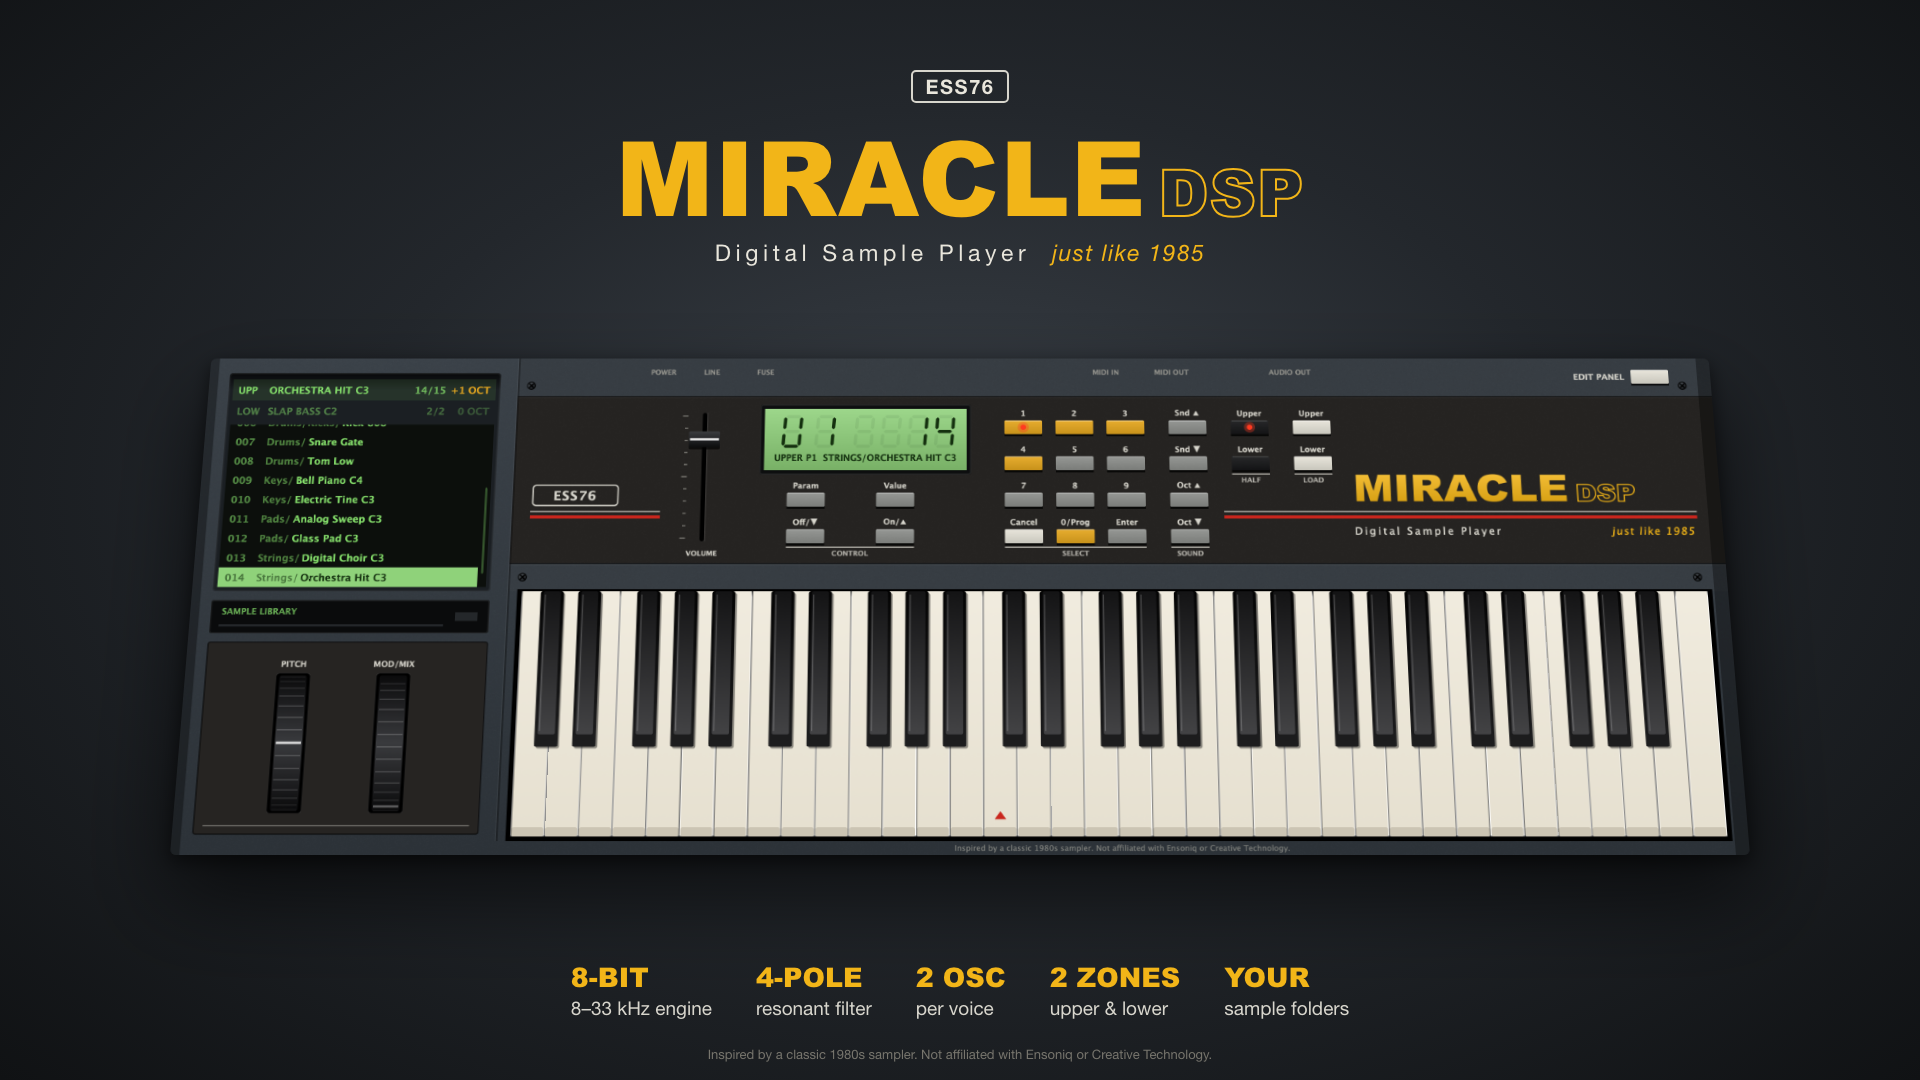
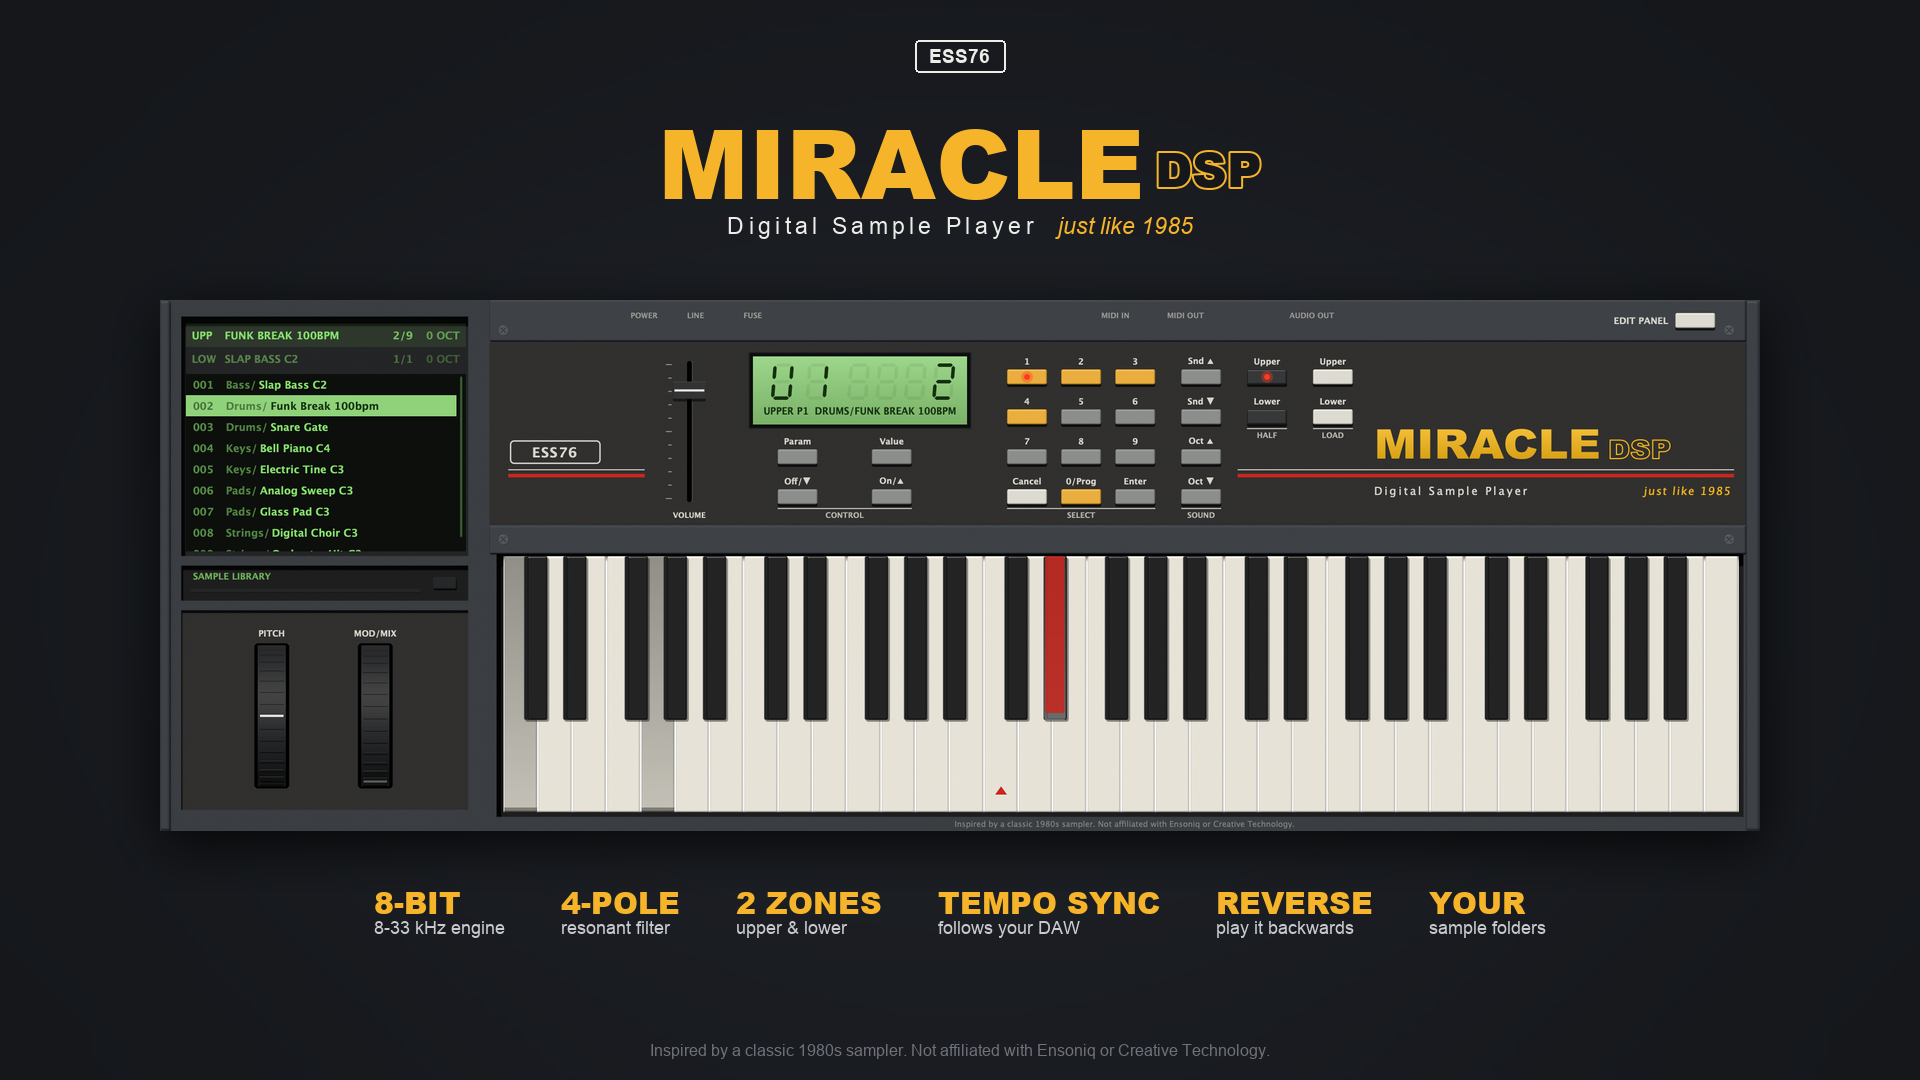
Regenerate mockups with the Blender look and ship Assets in the source zip
- New promotional graphics showing tempo sync, reverse and the playhead.
- Assets/promo: screenshot tool and mockup generator so the graphics can
  be rebuilt.
- build_installer.sh: include Assets/ in the source zip. The build needs
  Assets/renders since 1.4.0, so the previous zip could not be built.

diff --git a/Assets/promo/make_mockups.py b/Assets/promo/make_mockups.py
@@ -1,0 +1,210 @@
+#!/usr/bin/env python3
+"""Builds the promotional graphics in Release/<version>/Mockups from editor screenshots.
+
+Usage: python3 make_mockups.py <shots dir> <output dir>
+
+<shots dir> must hold compact.png, edit.png and edit_reverse.png as rendered by
+promo_shots.cpp (editor at 2x scale, 2720 px wide).
+"""
+import sys
+from pathlib import Path
+from PIL import Image, ImageDraw, ImageFilter, ImageFont
+
+SHOTS, OUT = Path(sys.argv[1]), Path(sys.argv[2])
+OUT.mkdir(parents=True, exist_ok=True)
+
+FONTS = Path("/System/Library/Fonts/Supplemental")
+AMBER, WHITE, RED = (245, 180, 42), (236, 236, 232), (205, 40, 36)
+
+
+def font(name, size):
+    return ImageFont.truetype(str(FONTS / name), size)
+
+
+compact = Image.open(SHOTS / "compact.png").convert("RGB")
+edit = Image.open(SHOTS / "edit.png").convert("RGB")
+edit_rev = Image.open(SHOTS / "edit_reverse.png").convert("RGB")
+
+# regions of the 2720 x 1540 edit screenshot
+TRAY = (32, 26, 523, 513)
+KEYPAD = (565, 69, 2700, 381)
+WAVE = (26, 914, 1269, 1205)
+PANEL = (0, 905, 2720, 1540)
+
+
+def background(w, h):
+    """Dark charcoal with a soft light spot behind the product."""
+    bg = Image.new("RGB", (w, h), (21, 23, 27))
+    glow = Image.new("L", (w, h), 0)
+    ImageDraw.Draw(glow).ellipse((w * 0.1, h * 0.15, w * 0.9, h * 0.95), fill=70)
+    glow = glow.filter(ImageFilter.GaussianBlur(min(w, h) * 0.18))
+    bg.paste(Image.new("RGB", (w, h), (52, 57, 66)), (0, 0), glow)
+    return bg
+
+
+def place(canvas, img, x, y, width, shadow=True):
+    """Pastes img scaled to width at x/y with a drop shadow; returns the bottom y."""
+    s = width / img.width
+    im = img.resize((int(img.width * s), int(img.height * s)), Image.LANCZOS)
+    if shadow:
+        pad = 60
+        sh = Image.new("L", (im.width + pad * 2, im.height + pad * 2), 0)
+        ImageDraw.Draw(sh).rectangle((pad, pad + 14, pad + im.width, pad + im.height + 14), fill=190)
+        sh = sh.filter(ImageFilter.GaussianBlur(26))
+        canvas.paste(Image.new("RGB", sh.size, (0, 0, 0)), (int(x) - pad, int(y) - pad), sh)
+    canvas.paste(im, (int(x), int(y)))
+    return int(y) + im.height
+
+
+def spaced(d, x, y, txt, f, fill, spacing=0):
+    for ch in txt:
+        d.text((x, y), ch, font=f, fill=fill)
+        x += d.textlength(ch, font=f) + spacing
+    return x
+
+
+def logo(canvas, cx, y, size, badge=True, align="center", x=None):
+    """ESS76 badge, MIRACLE DSP wordmark and subtitle. Returns the bottom y."""
+    d = ImageDraw.Draw(canvas)
+    big, small = font("Arial Black.ttf", size), font("Arial Black.ttf", int(size * 0.5))
+    sub, ital = font("Arial.ttf", int(size * 0.24)), font("Arial Italic.ttf", int(size * 0.24))
+    w1, w2 = d.textlength("MIRACLE", font=big), d.textlength("DSP", font=small)
+    total = w1 + size * 0.12 + w2
+    left = cx - total / 2 if align == "center" else x
+    if badge:
+        bf = font("Arial Bold.ttf", int(size * 0.2))
+        bw = d.textlength("ESS76", font=bf) + size * 0.3
+        bx = cx - bw / 2 if align == "center" else left
+        d.rounded_rectangle((bx, y, bx + bw, y + size * 0.33), radius=4, outline=WHITE, width=max(2, size // 50))
+        d.text((bx + bw / 2, y + size * 0.165), "ESS76", font=bf, fill=WHITE, anchor="mm")
+        y += size * 0.55
+    d.text((left, y), "MIRACLE", font=big, fill=AMBER)
+    d.text((left + w1 + size * 0.12, y + size * 0.98), "DSP", font=small, fill=(21, 23, 27), anchor="ls",
+           stroke_width=max(2, size // 45), stroke_fill=AMBER)
+    y += size * 1.25
+    s1, sp, gap = "Digital Sample Player", size * 0.045, size * 0.25
+    w_s1 = sum(d.textlength(ch, font=sub) + sp for ch in s1) - sp
+    w_s2 = d.textlength("just like 1985", font=ital)
+    sx = cx - (w_s1 + gap + w_s2) / 2 if align == "center" else left
+    spaced(d, sx, y, s1, sub, WHITE, sp)
+    d.text((sx + w_s1 + gap, y), "just like 1985", font=ital, fill=AMBER)
+    return int(y + size * 0.4)
+
+
+def features(canvas, y, items, size, cx, gap):
+    d = ImageDraw.Draw(canvas)
+    hf, tf = font("Arial Black.ttf", size), font("Arial.ttf", int(size * 0.62))
+    widths = [max(d.textlength(h, font=hf), d.textlength(t, font=tf)) for h, t in items]
+    x = cx - (sum(widths) + gap * (len(items) - 1)) / 2
+    for (h, t), w in zip(items, widths):
+        d.text((x, y), h, font=hf, fill=AMBER)
+        d.text((x, y + size * 1.25), t, font=tf, fill=(200, 202, 206))
+        x += w + gap
+
+
+def disclaimer(canvas, y):
+    ImageDraw.Draw(canvas).text(
+        (canvas.width / 2, y), "Inspired by a classic 1980s sampler. Not affiliated with Ensoniq or Creative Technology.",
+        font=font("Arial.ttf", max(12, canvas.width // 120)), fill=(110, 114, 122), anchor="mm")
+
+
+def centered(canvas, y, txt, size, fill=WHITE, name="Arial.ttf"):
+    ImageDraw.Draw(canvas).text((canvas.width / 2, y), txt, font=font(name, size), fill=fill, anchor="mm")
+
+
+FEATS = [("8-BIT", "8-33 kHz engine"), ("4-POLE", "resonant filter"), ("2 ZONES", "upper & lower"),
+         ("TEMPO SYNC", "follows your DAW"), ("REVERSE", "play it backwards"), ("YOUR", "sample folders")]
+
+# 01 hero 1920 x 1080
+c = background(1920, 1080)
+logo(c, 960, 40, 96)
+place(c, compact, 160, 300, 1600)
+features(c, 880, FEATS, 30, 960, 56)
+disclaimer(c, 1050)
+c.save(OUT / "01_hero_1920x1080.png", optimize=True)
+
+# 02 banner 1500 x 500
+c = background(1500, 500)
+place(c, compact.crop((0, 0, 2000, 904)), 610, 50, 1000)
+d = ImageDraw.Draw(c)
+logo(c, 0, 90, 84, align="left", x=60)
+d.line((60, 300, 560, 300), fill=RED, width=4)
+d.text((60, 330), "NEW IN 1.4", font=font("Arial Black.ttf", 22), fill=AMBER)
+d.text((60, 364), "Tempo sync · Reverse · Playhead", font=font("Arial.ttf", 24), fill=WHITE)
+c.save(OUT / "02_banner_1500x500.png", optimize=True)
+
+# 03 social 1080 x 1080
+c = background(1080, 1080)
+logo(c, 540, 50, 84)
+place(c, edit.crop(KEYPAD), 40, 320, 1000)
+y = place(c, edit.crop(WAVE), 150, 530, 780)
+features(c, y + 50, FEATS[:4], 26, 540, 40)
+centered(c, y + 180, "Point it at a folder. Scroll. Play.", 32)
+disclaimer(c, 1050)
+c.save(OUT / "03_social_1080x1080.png", optimize=True)
+
+# 04 story 1080 x 1920
+c = background(1080, 1920)
+logo(c, 540, 120, 96)
+place(c, edit.crop(KEYPAD), 30, 470, 1020)
+centered(c, 760, "NEW IN 1.4", 34, AMBER, "Arial Black.ttf")
+y = place(c, edit.crop(WAVE), 90, 820, 900)
+centered(c, y + 40, "TEMPO SYNC  ·  the red key plays the loop in DAW tempo", 26)
+y = place(c, edit_rev.crop(WAVE), 90, y + 100, 900)
+centered(c, y + 40, "REVERSE  ·  a white line shows where the sample plays", 26)
+centered(c, y + 180, "8-bit grit. 4-pole filter.", 40)
+centered(c, y + 236, "Every sample folder you own.", 40)
+disclaimer(c, 1880)
+c.save(OUT / "04_story_1080x1920.png", optimize=True)
+
+# 05 laptop 1600 x 1000: plugin window open over a DAW arrangement
+c = background(1600, 1000)
+d = ImageDraw.Draw(c)
+d.rounded_rectangle((150, 60, 1450, 900), radius=36, fill=(12, 12, 14), outline=(90, 94, 100), width=3)
+screen = (180, 90, 1420, 860)
+d.rectangle(screen, fill=(36, 38, 43))
+d.rectangle((screen[0], screen[1], screen[2], screen[1] + 26), fill=(52, 55, 61))
+for i, col in enumerate([(232, 94, 84), (235, 182, 64), (98, 190, 88)]):
+    d.ellipse((screen[0] + 12 + i * 22, screen[1] + 7, screen[0] + 26 + i * 22, screen[1] + 21), fill=col)
+tracks = [("Drums", (70, 120, 190)), ("Bass", (120, 88, 180)), ("MIRACLE DSP", (196, 140, 40)),
+          ("Pad", (60, 150, 130)), ("Vocal", (170, 80, 110)), ("FX", (90, 110, 140)), ("Keys", (160, 120, 70))]
+tf = font("Arial.ttf", 15)
+for i, (name, col) in enumerate(tracks):
+    ty = screen[1] + 50 + i * 100
+    d.text((screen[0] + 14, ty + 30), name, font=tf, fill=(200, 200, 205))
+    for k, (a, b) in enumerate([(0, 0.32), (0.34, 0.66), (0.68, 1.0)]):
+        if (i + k) % 4 == 3:
+            continue
+        x0 = screen[0] + 150 + a * 1060
+        d.rounded_rectangle((x0, ty + 10, x0 + (b - a) * 1060 - 8, ty + 80), radius=5, fill=col)
+d.polygon([(40, 900), (1560, 900), (1500, 940), (100, 940)], fill=(70, 73, 79))
+d.rectangle((720, 900, 880, 910), fill=(45, 47, 52))
+place(c, edit, 270, 230, 1060)
+c.save(OUT / "05_laptop_1600x1000.png", optimize=True)
+
+# 06 feature sheet 1600 x 1400
+c = background(1600, 1400)
+d = ImageDraw.Draw(c)
+logo(c, 800, 40, 80, badge=False)
+hf, tf = font("Arial Black.ttf", 28), font("Arial.ttf", 19)
+
+
+def caption(x, y, head, txt):
+    d.text((x, y), head, font=hf, fill=AMBER)
+    d.text((x, y + 40), txt, font=tf, fill=(220, 222, 226))
+
+
+y = place(c, edit.crop(PANEL), 50, 200, 1500)
+caption(50, y + 22, "EDIT PANEL", "Every parameter: wavesample with loop points, two oscillators, LFO, filter, both envelopes, master.")
+y2 = place(c, edit.crop(WAVE), 50, y + 120, 720)
+caption(50, y2 + 20, "TEMPO SYNC", "Reads the DAW tempo and the loop tempo. The red key plays the loop in time.")
+y3 = place(c, edit_rev.crop(WAVE), 830, y + 120, 720)
+caption(830, y3 + 20, "REVERSE + PLAYHEAD", "Play samples backwards. A white line follows the sample.")
+y4 = place(c, edit.crop(KEYPAD), 50, y2 + 120, 960)
+caption(50, y4 + 20, "REAL KEYPAD WORKFLOW", "Type a parameter number, step the value, recall programs.")
+ty = place(c, edit.crop(TRAY), 1150, y2 + 120, 330)
+caption(1150, ty + 20, "DISK TRAY", "One folder per half.")
+disclaimer(c, 1380)
+c.save(OUT / "06_feature_sheet_1600x1400.png", optimize=True)
+
+print("written to", OUT)

diff --git a/Assets/promo/promo_shots.cpp b/Assets/promo/promo_shots.cpp
@@ -1,0 +1,70 @@
+#include "PluginProcessor.h"
+#include "PluginEditor.h"
+// Renders promotional screenshots of the real editor with a demo sample library.
+static void writeWav (juce::File f, std::function<float(double)> fn, double secs, double sr = 44100)
+{
+    f.getParentDirectory().createDirectory(); f.deleteFile(); juce::WavAudioFormat wav; auto os = f.createOutputStream();
+    std::unique_ptr<juce::AudioFormatWriter> w (wav.createWriterFor (os.release(), sr, 1, 16, {}, 0));
+    juce::AudioBuffer<float> b (1, (int) (sr * secs));
+    for (int i = 0; i < b.getNumSamples(); ++i) b.setSample (0, i, fn (i / sr));
+    w->writeFromAudioSampleBuffer (b, 0, b.getNumSamples());
+}
+static float noise() { static juce::Random r (76); return r.nextFloat() * 2.0f - 1.0f; }
+static double tone (double f, double t, int harm) { double s = 0; for (int h = 1; h <= harm; ++h) s += std::sin (2 * M_PI * f * h * t) / h; return s * 0.6; }
+
+int main (int, char** argv)
+{
+    juce::ScopedJuceInitialiser_GUI init;
+    juce::File lib (argv[1]), out (argv[2]);
+    lib.deleteRecursively(); out.createDirectory();
+    const double C2 = 65.41, C3 = 130.81, C4 = 261.63;
+    writeWav (lib.getChildFile ("Bass/Slap Bass C2.wav"), [=](double t){ return (float) (std::exp (-t * 3) * tone (C2, t, 8)); }, 1.5);
+    writeWav (lib.getChildFile ("Drums/Funk Break 100bpm.wav"), [](double t){
+        const double beat = 0.6, b = std::fmod (t, beat), e = std::fmod (t, beat / 2); const int n = (int) (t / beat) % 4;
+        double s = 0.25 * std::exp (-e * 60) * noise();                                   // hats
+        if (n == 0 || n == 2) s += 0.9 * std::exp (-b * 18) * std::sin (2 * M_PI * (50 + 90 * std::exp (-b * 30)) * b);  // kick
+        if (n == 1 || n == 3) s += 0.7 * std::exp (-b * 22) * noise();                       // snare
+        return (float) s; }, 4.8);
+    writeWav (lib.getChildFile ("Drums/Snare Gate.wav"), [](double t){ return (float) (t < 0.35 ? 0.8 * noise() * std::exp (-t * 4) : 0.0); }, 0.5);
+    writeWav (lib.getChildFile ("Keys/Bell Piano C4.wav"), [=](double t){ return (float) (std::exp (-t * 1.5) * (std::sin (2 * M_PI * C4 * t) + 0.4 * std::sin (2 * M_PI * C4 * 3.01 * t))); }, 2.5);
+    writeWav (lib.getChildFile ("Keys/Electric Tine C3.wav"), [=](double t){ return (float) (std::exp (-t * 2) * std::sin (2 * M_PI * C3 * t + 2 * std::exp (-t * 6) * std::sin (2 * M_PI * C3 * 7 * t))); }, 2.0);
+    writeWav (lib.getChildFile ("Pads/Analog Sweep C3.wav"), [=](double t){ return (float) (std::min (1.0, t) * tone (C3, t, 2 + (int) (t * 4))); }, 3.0);
+    writeWav (lib.getChildFile ("Pads/Glass Pad C3.wav"), [=](double t){ return (float) (std::sin (t * 1.2) * 0.5 * (std::sin (2 * M_PI * C3 * t) + std::sin (2 * M_PI * C3 * 2.005 * t))); }, 3.0);
+    writeWav (lib.getChildFile ("Strings/Digital Choir C3.wav"), [=](double t){ return (float) (std::min (1.0, t * 3) * (0.8 + 0.2 * std::sin (t * 30)) * tone (C3, t, 5)); }, 2.5);
+    writeWav (lib.getChildFile ("Strings/Orchestra Hit C3.wav"), [=](double t){ return (float) (std::exp (-t * 2.2) * (tone (C3, t, 10) + 0.3 * std::exp (-t * 20) * noise())); }, 2.0);
+
+    MiracleAudioProcessor p; p.prepareToPlay (48000, 512);
+    auto set = [&](const char* id, float v){ auto* q = p.apvts.getParameter (id); q->setValueNotifyingHost (q->convertTo0to1 (v)); };
+    auto blocks = [&](int n, int note = -1){ juce::AudioBuffer<float> b (2, 512);
+        for (int k = 0; k < n; ++k) { juce::MidiBuffer m; if (k == 0 && note >= 0) m.addEvent (juce::MidiMessage::noteOn (1, note, (juce::uint8) 100), 0); p.processBlock (b, m); } };
+    auto shot = [&](juce::Component& e, const juce::String& n){ juce::MessageManager::getInstance()->runDispatchLoopUntil (400);
+        auto img = e.createComponentSnapshot (e.getLocalBounds(), true, 2.0f); juce::PNGImageFormat png; auto f = out.getChildFile (n); f.deleteFile();
+        auto os = f.createOutputStream(); png.writeImageToStream (img, *os); };
+    auto pressUpper = [](MiracleAudioProcessorEditor& e){ for (auto* c : e.getChildren()) if (auto* k = dynamic_cast<KeyCap*> (c)) if (k->getName() == "Upper") { k->onClick(); break; } };
+
+    p.loadFolder (0, lib.getChildFile ("Bass")); p.loadFolder (1, lib); p.selectSound (1, 1);   // Drums/Funk Break 100bpm
+    set ("U_loopmode", 1); set ("U_f_peak", 40); set ("U_oscmix", 45); set ("U_detune", 20); set ("U_tsync", 1);
+    blocks (2);
+    const int sync = p.getSyncKey (1);
+    printf ("sync key %d, sample %.1f bpm, host %.1f bpm\n", sync, p.getSampleBpm (1), p.getHostBpm());
+    blocks (160, sync);
+    p.keyboardState.noteOn (1, sync, 0.8f); p.keyboardState.noteOn (1, 36, 0.8f); p.keyboardState.noteOn (1, 43, 0.8f);
+    {
+        std::unique_ptr<MiracleAudioProcessorEditor> e (dynamic_cast<MiracleAudioProcessorEditor*> (p.createEditor()));
+        pressUpper (*e);
+        e->setEditPanelVisible (false); shot (*e, "compact.png");
+        e->setEditPanelVisible (true);  shot (*e, "edit.png");
+    }
+    // reverse demo: orchestra hit played backwards, note held, playhead running
+    for (int n : { sync, 36, 43 }) p.keyboardState.noteOff (1, n, 0.0f);
+    { juce::AudioBuffer<float> b (2, 512); juce::MidiBuffer m; m.addEvent (juce::MidiMessage::noteOff (1, sync), 0); p.processBlock (b, m); }
+    blocks (60);
+    set ("U_tsync", 0); set ("U_loopmode", 0); set ("U_reverse", 1); p.selectSound (1, 8);   // Strings/Orchestra Hit C3
+    blocks (2); blocks (70, 60);
+    p.keyboardState.noteOn (1, 60, 0.8f); p.keyboardState.noteOn (1, 64, 0.8f); p.keyboardState.noteOn (1, 67, 0.8f);
+    {
+        std::unique_ptr<MiracleAudioProcessorEditor> e (dynamic_cast<MiracleAudioProcessorEditor*> (p.createEditor()));
+        pressUpper (*e); e->setEditPanelVisible (true); shot (*e, "edit_reverse.png");
+    }
+    return 0;
+}

diff --git a/Assets/promo/README.md b/Assets/promo/README.md
@@ -1,0 +1,24 @@
+# Promotional graphics
+
+Rebuilds `Release/<version>/Mockups` from real editor screenshots.
+
+1. Build the screenshot tool (needs JUCE at `~/Developer/JUCE`):
+
+   ```bash
+   cmake -S Assets/promo -B ~/Developer/MiracleDSP-promo-build -DCMAKE_BUILD_TYPE=Release
+   cmake --build ~/Developer/MiracleDSP-promo-build -j8
+   ```
+
+2. Render the screenshots. The first argument is a scratch folder; the tool deletes it
+   and writes a demo sample library there. The tool saves plugin settings to
+   `~/Library/Application Support/MIRACLE DSP`, so back that folder up first.
+
+   ```bash
+   ~/Developer/MiracleDSP-promo-build/PromoShots_artefacts/Release/PromoShots "/tmp/promo/Sample Library" /tmp/promo/shots
+   ```
+
+3. Compose the mockups (needs Pillow):
+
+   ```bash
+   python3 Assets/promo/make_mockups.py /tmp/promo/shots "Release/MIRACLE DSP 1.4.0/Mockups"
+   ```
